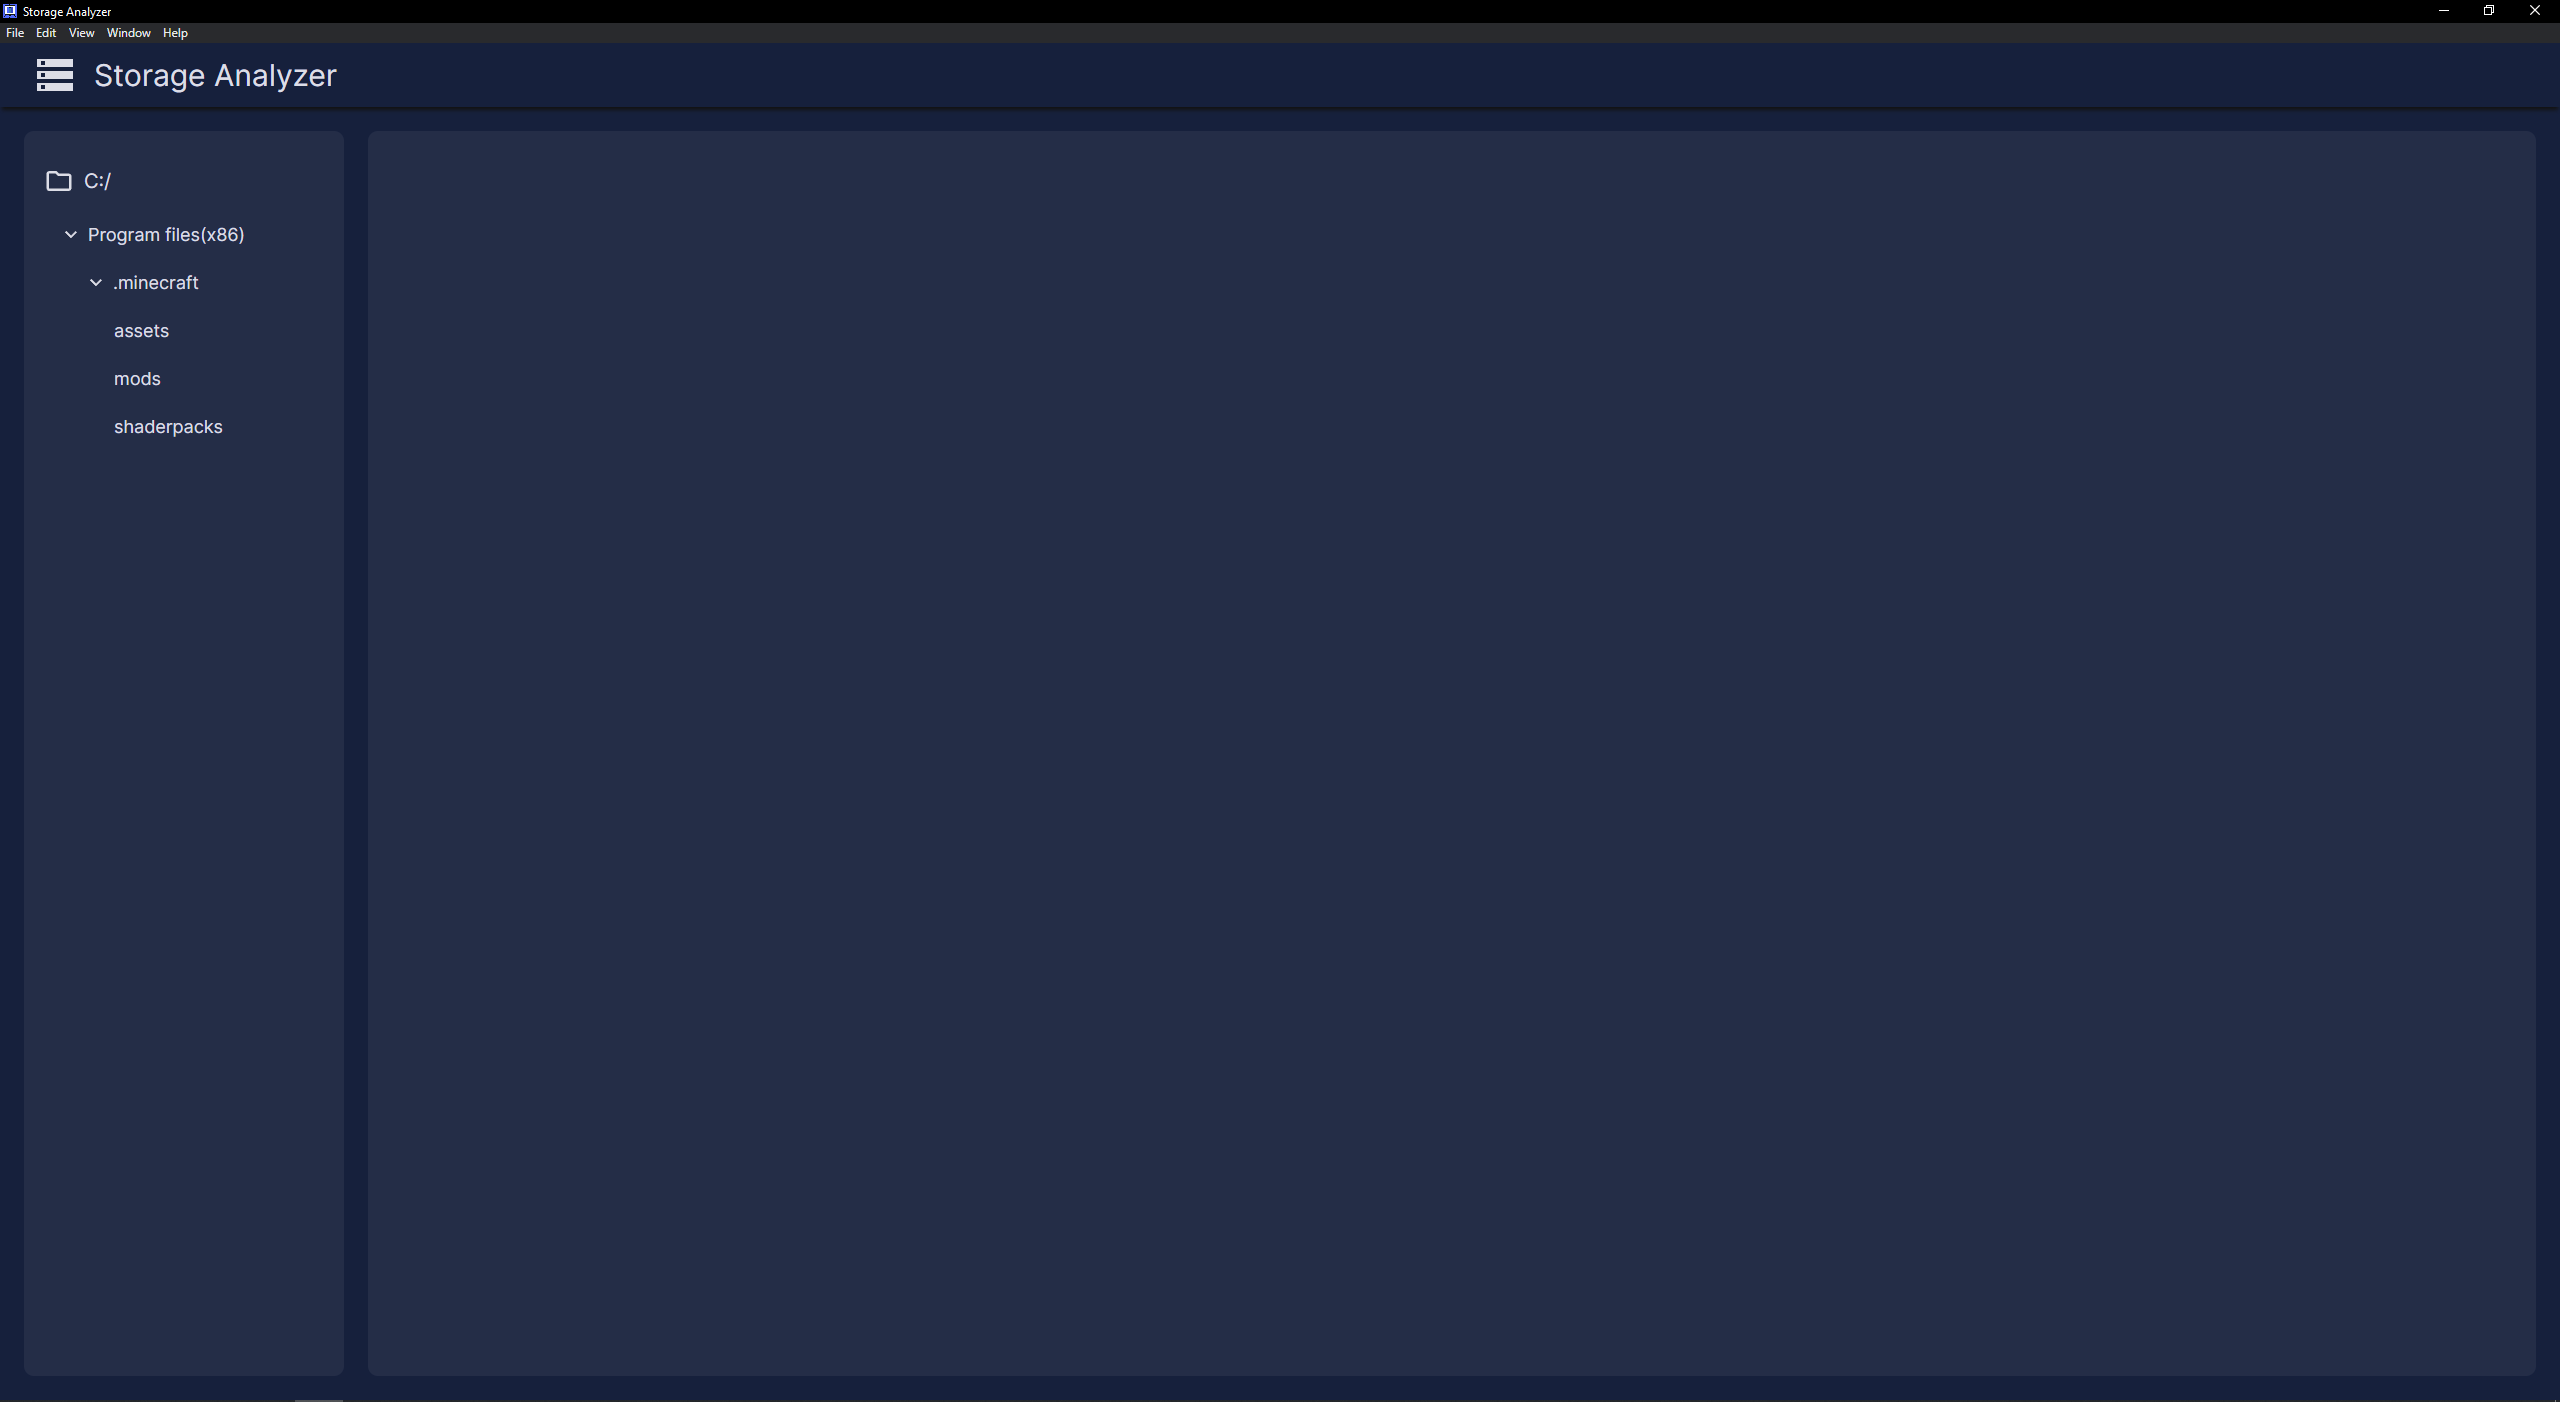
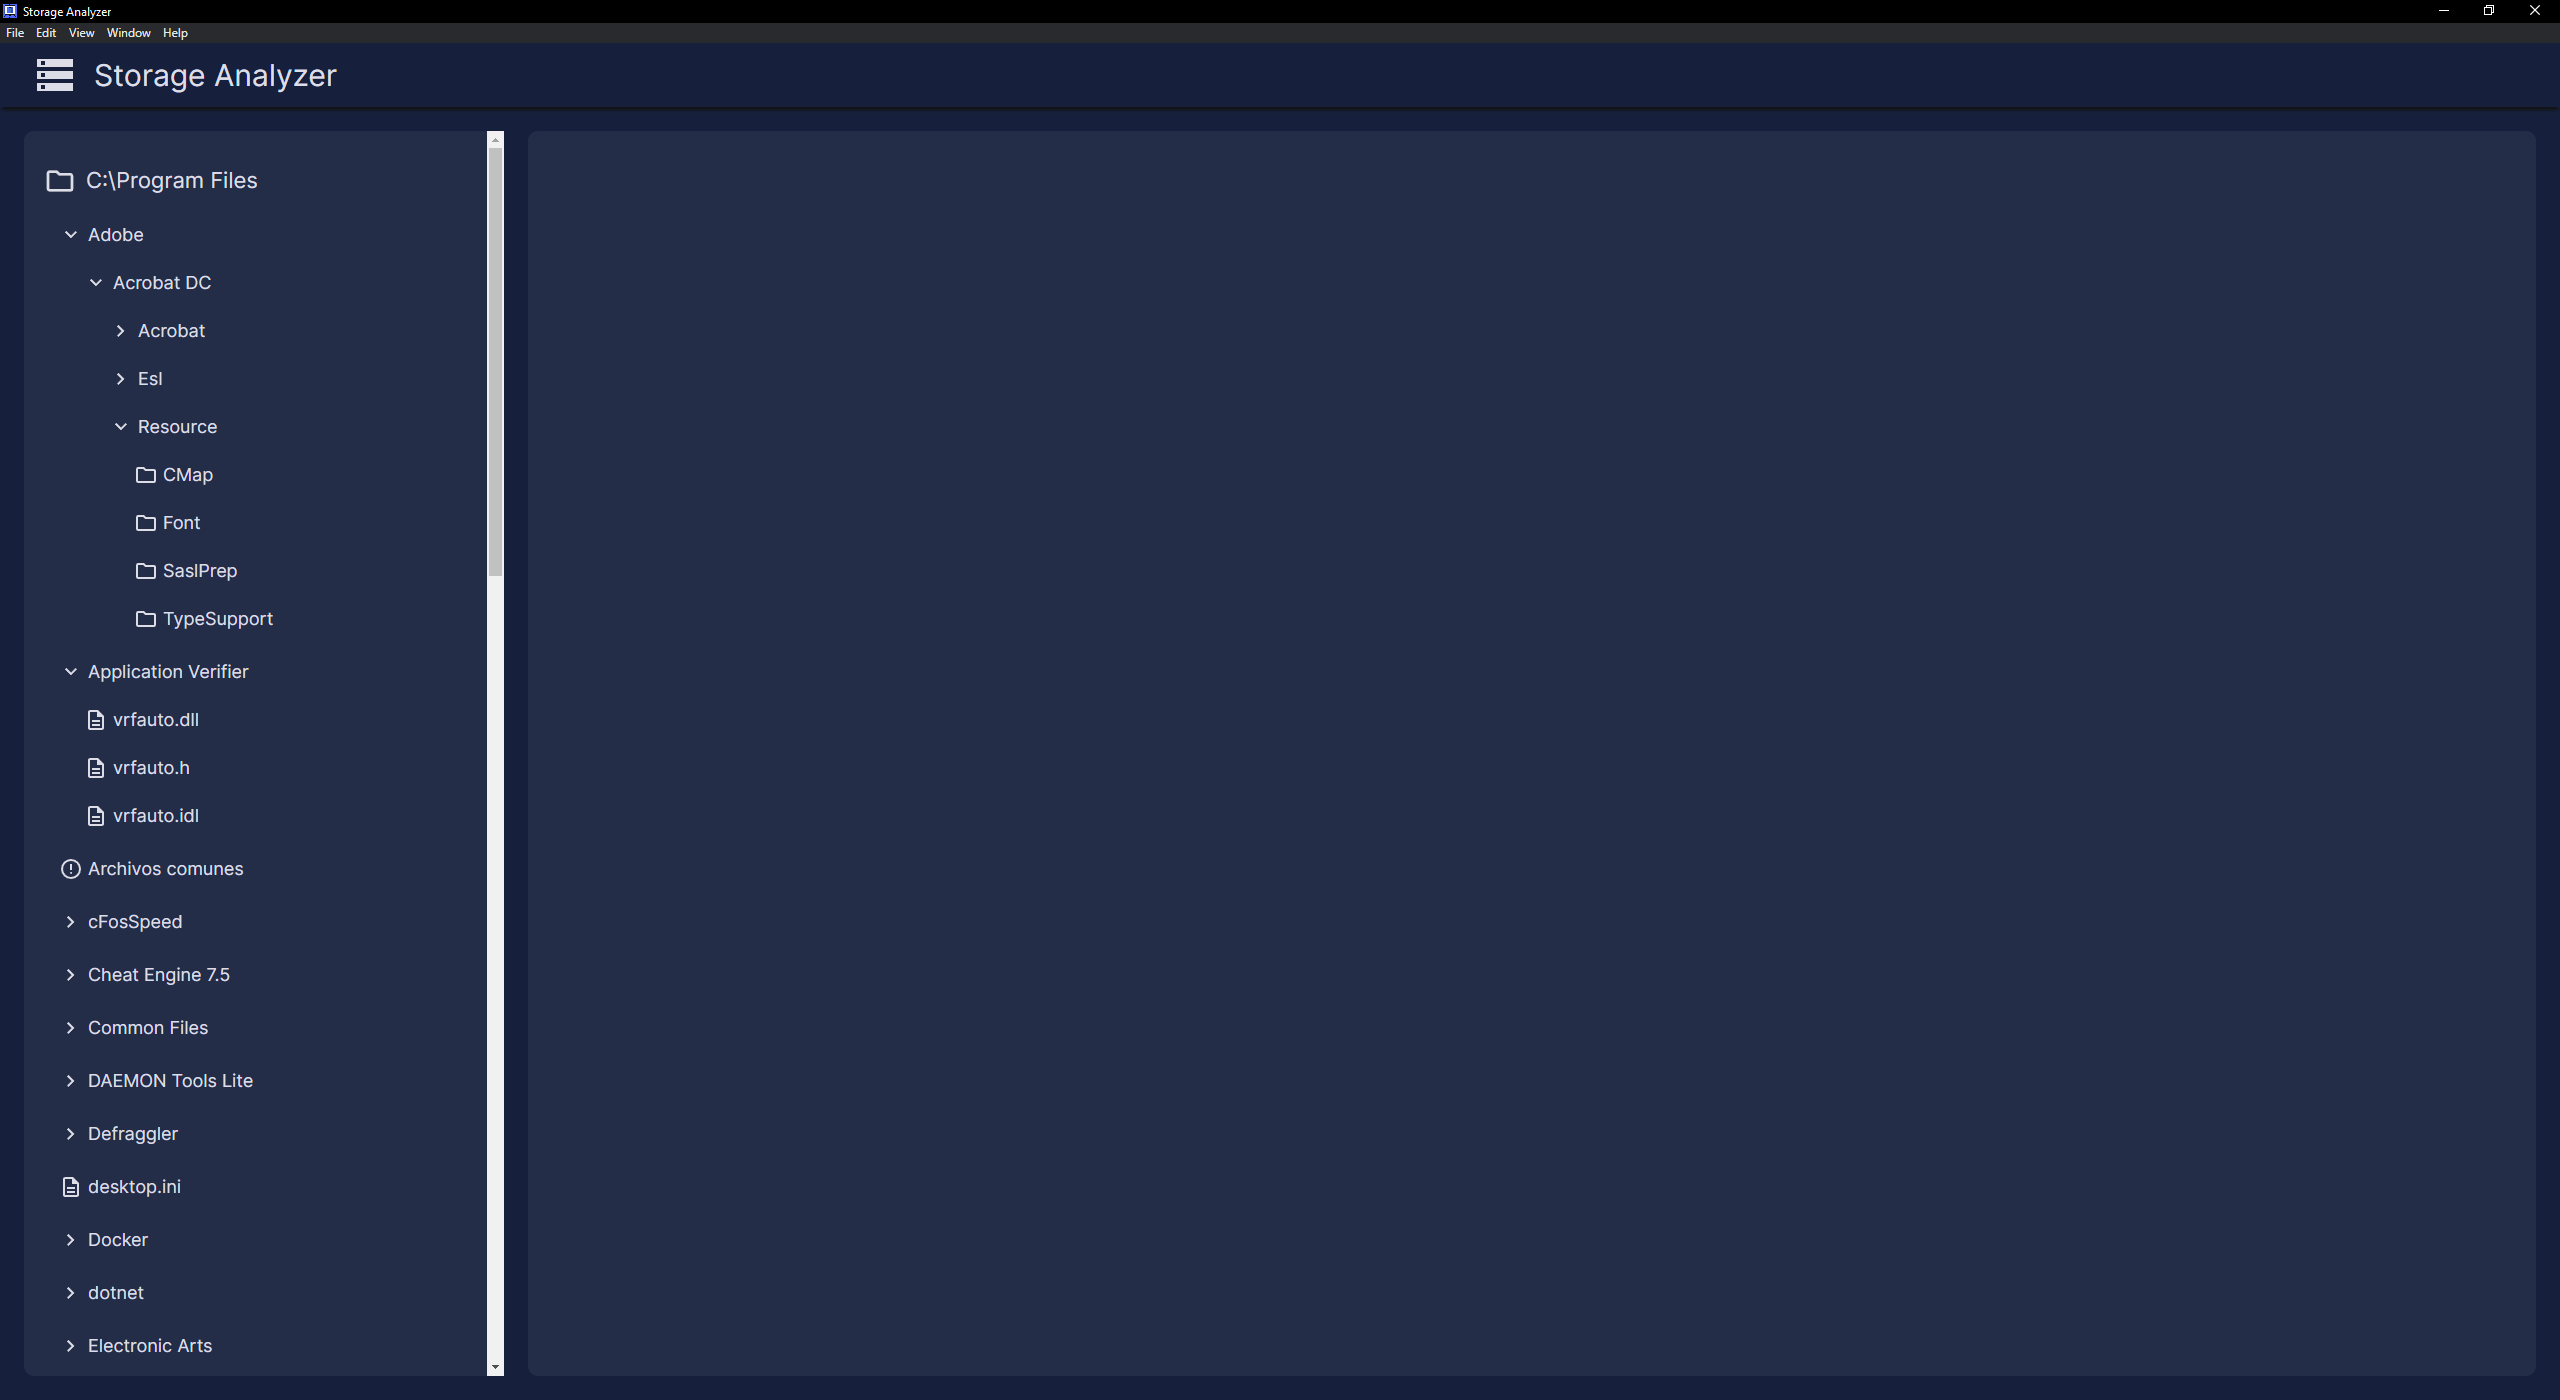
feat: implemented multi-level directory retrieval

diff --git a/modules/frontend/src/components/body/directoryTree/DirectoryTreeItem.tsx b/modules/frontend/src/components/body/directoryTree/DirectoryTreeItem.tsx
@@ -8,31 +8,32 @@ interface Props {
     directory: Directory
     maxLevel: number;
     level: number;
-    paddingBottom?: number;
+    marginBottom?: number;
 }
 
-export const DirectoryTreeItem = (props: Props) => {
+export const DirectoryTreeItem = ({ directory, level, maxLevel, marginBottom }: Props) => {
     const [showChildrenItems, setShowChildrenItems] = useState<boolean>(false);
 
     const getSubItems = (): ReactNode[] => {
-        return props.directory.subdirectories.map((directory: Directory, i) =>
+        return directory.subdirectories.map((directory: Directory, i) =>
             <DirectoryTreeItem
                 key={i}
                 directory={directory}
-                maxLevel={props.maxLevel}
-                level={props.level+1} />)
+                maxLevel={maxLevel}
+                level={level+1} />)
     }
 
     const getIconType = () => {
-        if (props.directory.type === DirectoryType.FILE) return IconType.FILE;
-        if (props.directory.type === DirectoryType.FOLDER && (props.directory.subdirectories.length === 0 || props.level - 1 === props.maxLevel)) return IconType.FOLDER;
+        if (directory.type === DirectoryType.ERROR) return IconType.ROUNDED_ERROR;
+        if (directory.type === DirectoryType.FILE) return IconType.FILE;
+        if (directory.type === DirectoryType.FOLDER && (directory.subdirectories.length === 0 || level - 1 === maxLevel)) return IconType.FOLDER;
         return showChildrenItems ? IconType.EXPAND_MORE : IconType.CHEVRON_RIGHT
     }
 
     return (
         <div
             className={"c-directory-item-container"}
-            style={{paddingLeft: 25, marginBottom: props.paddingBottom}}>
+            style={{ paddingLeft: 25, marginBottom }}>
             <a
                 className={"c-directory-item u-cursor-pointer-all"}
                 onClick={() => {setShowChildrenItems(!showChildrenItems)}}>
@@ -41,12 +42,11 @@ export const DirectoryTreeItem = (props: Props) => {
                     iconType={getIconType()}
                     width={"auto"}
                     textSize={18}
-                    text={props.directory.name}
+                    text={directory.name}
                     textStyle={{paddingLeft: "5px"}} />
             </a>
-            {(showChildrenItems && props.level <= props.maxLevel) &&
-                getSubItems()
-            }
+            {(showChildrenItems && level <= maxLevel) &&
+                getSubItems()}
         </div>
     )
 }

diff --git a/modules/frontend/src/icons/RoundedErrorIcon.tsx b/modules/frontend/src/icons/RoundedErrorIcon.tsx
@@ -1,0 +1,10 @@
+import React from "react";
+import { IconProps } from "../interfaces/IconProps";
+
+export const RoundedErrorIcon = (props: IconProps) => {
+    return (
+        <svg xmlns="http://www.w3.org/2000/svg" height={props.size} viewBox="0 -960 960 960" width={props.size}>
+            <path d="M480-280q17 0 28.5-11.5T520-320q0-17-11.5-28.5T480-360q-17 0-28.5 11.5T440-320q0 17 11.5 28.5T480-280Zm-40-160h80v-240h-80v240Zm40 360q-83 0-156-31.5T197-197q-54-54-85.5-127T80-480q0-83 31.5-156T197-763q54-54 127-85.5T480-880q83 0 156 31.5T763-763q54 54 85.5 127T880-480q0 83-31.5 156T763-197q-54 54-127 85.5T480-80Zm0-80q134 0 227-93t93-227q0-134-93-227t-227-93q-134 0-227 93t-93 227q0 134 93 227t227 93Zm0-320Z" fill={props.fillColor}/>
+        </svg>
+    )
+}

diff --git a/modules/frontend/src/components/general/Icon.tsx b/modules/frontend/src/components/general/Icon.tsx
@@ -6,6 +6,7 @@ import { FolderIcon } from "../../icons/FolderIcon";
 import { ExpandMoreIcon } from "../../icons/ExpandMoreIcon";
 import { ChevronRightIcon } from "../../icons/ChevronRightIcon";
 import { FileIcon } from "../../icons/FileIcon";
+import { RoundedErrorIcon } from "../../icons/RoundedErrorIcon";
 
 interface Props {
   id?: string;
@@ -26,6 +27,8 @@ export const Icon = (props: Props) => {
         return <ExpandMoreIcon size={props.size} fillColor={Color.APP_WHITE} />;
       case IconType.CHEVRON_RIGHT:
         return <ChevronRightIcon size={props.size} fillColor={Color.APP_WHITE} />;
+      case IconType.ROUNDED_ERROR:
+        return <RoundedErrorIcon size={props.size} fillColor={Color.APP_WHITE} />;
     }
   };
 

diff --git a/modules/frontend/src/components/body/directoryTree/DirectoryTreeComponent.tsx b/modules/frontend/src/components/body/directoryTree/DirectoryTreeComponent.tsx
@@ -7,7 +7,7 @@ import { Spinner } from "../../general/Spinner";
 
 export const DirectoryTreeComponent = () => {
   const { isLoading, isError, data: directory = null } = useGetDirectory();
-  const [ maxItemLevel, setMaxItemLevel ] = useState<number>(2);
+  const [ maxItemLevel, setMaxItemLevel ] = useState<number>(4);
 
   const getItems = (): ReactNode[] => {
     return directory?.subdirectories.map((directory, i) => (
@@ -16,7 +16,7 @@ export const DirectoryTreeComponent = () => {
         directory={directory}
         level={1}
         maxLevel={maxItemLevel}
-        paddingBottom={5}
+        marginBottom={5}
       />
     ));
   };

diff --git a/modules/frontend/src/enums/DirectoryType.ts b/modules/frontend/src/enums/DirectoryType.ts
@@ -1,4 +1,5 @@
 export enum DirectoryType {
     FOLDER = "FOLDER",
     FILE = "FILE",
+    ERROR = "ERROR",
 }

diff --git a/modules/frontend/src/enums/IconType.ts b/modules/frontend/src/enums/IconType.ts
@@ -4,4 +4,5 @@ export enum IconType {
     FILE,
     EXPAND_MORE,
     CHEVRON_RIGHT,
+    ROUNDED_ERROR
 }

diff --git a/modules/backend/src/main/java/backend/services/files/DirectoryService.java b/modules/backend/src/main/java/backend/services/files/DirectoryService.java
@@ -6,7 +6,6 @@ import backend.utils.RandomDirectoryGenerator;
 import lombok.NoArgsConstructor;
 import org.springframework.stereotype.Service;
 
-import java.io.IOException;
 import java.nio.file.*;
 import java.util.List;
 import java.util.stream.Stream;
@@ -14,7 +13,7 @@ import java.util.stream.Stream;
 @Service
 @NoArgsConstructor
 public class DirectoryService {
-    private final RandomDirectoryGenerator randomDirectoryGenerator = new RandomDirectoryGenerator();
+    private final RandomDirectoryGenerator randomDirectoryGenerator = new RandomDirectoryGenerator(1000, 80, 3);
 
     public Directory getMockedDirectory(String mockedDirName) {
         Directory rootDir = new Directory(mockedDirName, mockedDirName);
@@ -22,19 +21,36 @@ public class DirectoryService {
         return rootDir;
     }
 
-    public Directory getDirectory(String rootPath) throws IOException {
-        Path root = Paths.get(rootPath);
-        Directory rootDirectory = new Directory(root.toString(), "", DirectoryType.FOLDER);
-        List<Directory> subDirectories;
-        try (Stream<Path> stream = Files.list(root)) {
-            subDirectories = stream.map(p -> new Directory(
-                    p.getFileName().toString(),
-                    p.toAbsolutePath().toString(),
-                    p.toFile().isDirectory() ? DirectoryType.FOLDER : DirectoryType.FILE
-            )).toList();
+    public Directory getDirectory(String rootPath) {
+        Path rootDir = Paths.get(rootPath);
+        Directory rootDirectory = new Directory(rootDir.toString(), rootDir.toString(), DirectoryType.FOLDER);
+        buildSubdirectories(rootDirectory, 0, 4);
+        return rootDirectory;
+    }
+
+    public void buildSubdirectories(Directory directory, int currentLevel, int maxLevel) {
+
+        if (currentLevel >= maxLevel || directory.isFile()) {
+            return;
         }
 
-        rootDirectory.setSubdirectories(subDirectories);
-        return rootDirectory;
+        try {
+            Path rootDir = Paths.get(directory.getAbsolutePath());
+            List<Directory> subDirectories;
+            try (Stream<Path> stream = Files.list(rootDir)) {
+                subDirectories = stream.map(p -> new Directory(
+                        p.getFileName().toString(),
+                        p.toAbsolutePath().toString(),
+                        p.toFile().isDirectory() ? DirectoryType.FOLDER : DirectoryType.FILE
+                )).toList();
+            }
+
+            directory.setSubdirectories(subDirectories);
+            for (int i = 0; i < directory.getSubdirectories().size(); i++) {
+                buildSubdirectories(directory.getSubdirectories().get(i), currentLevel + 1, maxLevel);
+            }
+        } catch (Exception e) {
+            directory.setType(DirectoryType.ERROR);
+        }
     }
 }

diff --git a/modules/backend/src/main/java/backend/utils/RandomDirectoryGenerator.java b/modules/backend/src/main/java/backend/utils/RandomDirectoryGenerator.java
@@ -6,19 +6,28 @@ import java.util.List;
 import java.util.Random;
 
 public class RandomDirectoryGenerator {
-    private final Random random = new Random(10000);
+    private static final String PATH_DELIMITER = "/";
+    private final Random random;
+    private int directoryPercentage = 80;
+    private int subdirectoriesNumber = 3;
     private final List<String> firstLevelNames = List.of("Program Files(x86)", "Program Files", "Games", "Photos", "Memories");
     private final List<String> secondLevelNames = List.of(".minecraft", "Graduation photos", "Fortnite", "Assassin's Creed", "God of War");
     private final List<String> thirdLevelNames = List.of("shaders", "mods", "shaderpacks", "first photo", "second photo", "replays");
     private final List<List<String>> subDirNames = List.of(firstLevelNames, secondLevelNames, thirdLevelNames);
+
+    public RandomDirectoryGenerator(long seed, int directoryPercentage, int subdirectoriesNumber) {
+        random = new Random(seed);
+        this.directoryPercentage = directoryPercentage;
+        this.subdirectoriesNumber = subdirectoriesNumber;
+    }
 
     public void buildSubdirectories(Directory directory, int currentLevel, int maxLevel) {
         if (currentLevel >= maxLevel || directory.isFile()) {
             return;
         }
 
-        for (int i = 0; i < 3; i++) {
-            boolean newDirIsFile = random.nextInt(0, 100) > 80;
+        for (int i = 0; i < subdirectoriesNumber; i++) {
+            boolean newDirIsFile = random.nextInt(0, 100) > directoryPercentage;
             Directory subdirectory = getMockedDirectory(currentLevel, directory.getAbsolutePath(), newDirIsFile);
             buildSubdirectories(subdirectory, currentLevel + 1, maxLevel);
 
@@ -28,7 +37,7 @@ public class RandomDirectoryGenerator {
 
     private Directory getMockedDirectory(int currentLevel, String basePath, boolean isFile) {
         String subdirectoryName = subDirNames.get(currentLevel).get(random.nextInt(0, subDirNames.get(currentLevel).size() - 1));
-        String subdirectoryPath = basePath + "/" + subdirectoryName;
+        String subdirectoryPath = basePath + PATH_DELIMITER + subdirectoryName;
 
         Directory mockedDirectory = new Directory(subdirectoryName, subdirectoryPath);
         mockedDirectory.setTypeByIsFile(isFile);

diff --git a/modules/backend/src/main/java/backend/resources/directories/DirectoryResource.java b/modules/backend/src/main/java/backend/resources/directories/DirectoryResource.java
@@ -8,8 +8,6 @@ import org.springframework.web.bind.annotation.CrossOrigin;
 import org.springframework.web.bind.annotation.RequestMapping;
 import org.springframework.web.bind.annotation.RestController;
 
-import java.io.IOException;
-
 @RestController
 @RequestMapping("directory")
 @CrossOrigin
@@ -24,11 +22,10 @@ public class DirectoryResource {
     @RequestMapping("")
     public ResponseEntity<Directory> getDirectory() {
         try {
-            return ResponseEntity.ok(this.directoryService.getDirectory("C:\\Program Files (x86)"));
-        } catch (IOException exception) {
-            return ResponseEntity.internalServerError().body(new Directory("Error", ""));
+            return ResponseEntity.ok(this.directoryService.getDirectory("C:\\Program Files"));
+        } catch (Exception exception) {
+            return ResponseEntity.internalServerError().body(new Directory());
         }
-
     }
 
     @RequestMapping("/mock")

diff --git a/modules/backend/src/main/java/backend/models/Directory.java b/modules/backend/src/main/java/backend/models/Directory.java
@@ -15,7 +15,7 @@ import java.util.List;
 public class Directory {
     String name = "";
     String absolutePath = "";
-    DirectoryType type = DirectoryType.FOLDER;
+    @Setter DirectoryType type = DirectoryType.FOLDER;
     @Setter List<Directory> subdirectories = new ArrayList<>();
 
     public Directory(String name, String absolutePath, DirectoryType type) {

diff --git a/modules/backend/src/main/java/backend/enums/DirectoryType.java b/modules/backend/src/main/java/backend/enums/DirectoryType.java
@@ -2,5 +2,6 @@ package backend.enums;
 
 public enum DirectoryType {
     FOLDER,
-    FILE
+    FILE,
+    ERROR,
 }
